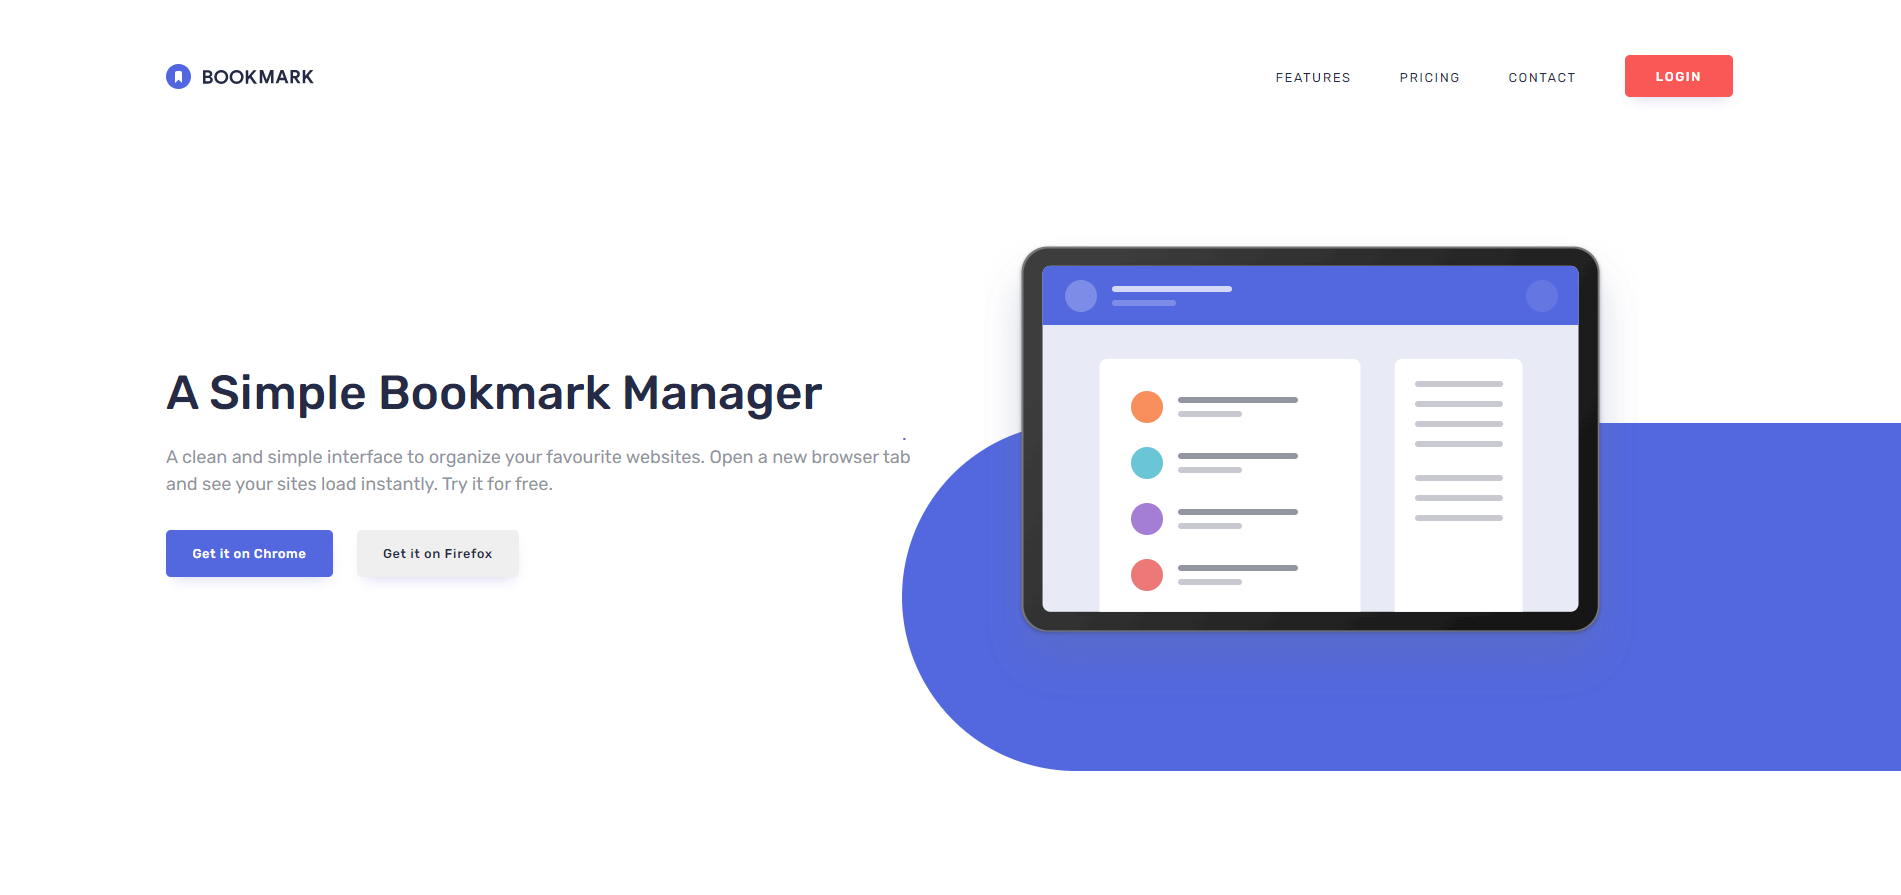
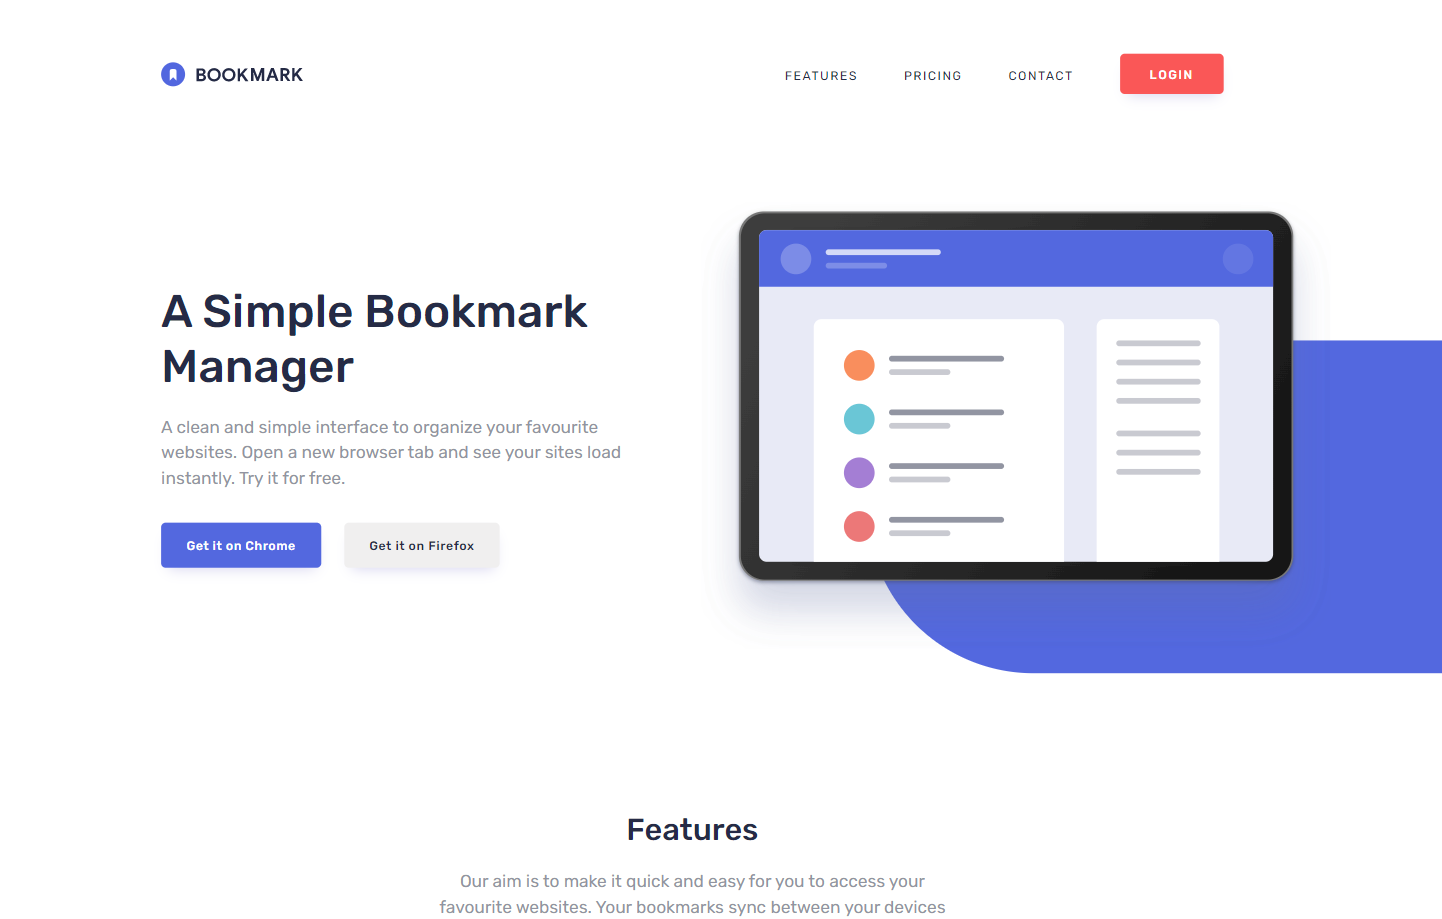
Delete NavBarLink and create Links components, style Contact component

diff --git a/src/components/Contact.js b/src/components/Contact.js
@@ -1,14 +1,15 @@
 import Section from "./Section";
 import Button from "./shared/Button";
-
+import '../css/Contact.css'
 function Contact() {
     return ( 
-        <Section classSection="section-secondary">
-            <p>35,000+ already joined</p>
-            <h2>Stay up-to-date with what we’re doing</h2>
+        <Section classSection="section-secondary section-contact">
+            <p className="contact-des">35,000+ ALREADY JOIN</p>
+            <h2 className="contact-subtitle">Stay up-to-date with what we’re doing</h2>
             <form>
-                <input placeholder="example@email.com"/>
+                <input className="contact-input" placeholder="example@email.com"/>
                 <Button
+                    classButton="btn btn-red btn-contact"
                     text="Contact Us"
                 />
             </form>

diff --git a/src/components/Footer.js b/src/components/Footer.js
@@ -1,19 +1,12 @@
 import {ReactComponent as LogoSVG} from '../img/logo-bookmark.svg';
 import {ReactComponent as FacebookSVG} from '../img/icon-facebook.svg';
 import {ReactComponent as TwitterSVG} from '../img/icon-twitter.svg';
+import Links from './Links';
 function Footer() {
-    const linkItems = [
-        <a href="/">FEATURES</a>,
-        <a href="/">PRICING</a>,
-        <a href="/">CONTACT</a>,
-        <a href="/">LOGIN</a>
-    ];
     return ( 
         <footer>
             <LogoSVG alt="Logo Bookmark"/> 
-            {linkItems.map((link, i) => (
-                <div>{link}</div>
-            ))}
+            <Links></Links>
             <FacebookSVG alt="Logo Facebook"/> 
             <TwitterSVG alt="Logo Facebook"/> 
         </footer>

diff --git a/src/components/Header.js b/src/components/Header.js
@@ -1,12 +1,17 @@
-import Navbarlink from "./NavbarLink";
 import "../css/Header.css";
 import {ReactComponent as LogoSVG} from '../img/logo-bookmark.svg';
+import Links from "./Links";
+import Button from "./shared/Button";
 function Header() {
     return ( 
         <header className="header">
             <LogoSVG alt="Logo Bookmark"/> 
             <nav className="navbar">
-                <Navbarlink></Navbarlink>
+                <Links></Links>
+                <Button
+                text="LOGIN"
+                classButton="btn btn-red"
+            />
             </nav>
         </header>
      );

diff --git a/src/components/Links.js b/src/components/Links.js
@@ -1,6 +1,5 @@
-import Button from "./shared/Button";
 import "../css/Link.css";
-function Navbarlink() {
+function Links() {
     const navItems = [
         <a href="/">FEATURES</a>,
         <a href="/">PRICING</a>,
@@ -11,12 +10,8 @@ function Navbarlink() {
             {navItems.map((link, i) => (
                 <div className="link">{link}</div>
             ))}
-            <Button
-                text="LOGIN"
-                classButton="btn btn-red"
-            />
         </>
     );
 }
 
-export default Navbarlink;
+export default Links;

diff --git a/src/css/Contact.css b/src/css/Contact.css
@@ -1,0 +1,25 @@
+.contact-subtitle{
+    color: var(--white);
+}
+.section-contact{
+    background-color: var(--soft-blue);
+    padding: 5rem 0;
+}
+.contact-des{
+    font-size: 0.8rem;
+    font-weight: 400;
+    letter-spacing: 0.4rem;
+    color: var(--white);
+}
+.contact-input{
+    padding: 0.65rem 1.8rem;
+    border: 0.2rem solid var(--white);
+    border-radius: 0.3rem;
+}
+form{
+    margin-top: 2rem;
+}
+.btn-contact{
+    padding: 0.7rem 1.2rem;
+    letter-spacing: 0.02rem;
+}

diff --git a/src/App.css b/src/App.css
@@ -23,16 +23,15 @@ body{
 a{
     text-decoration: none;
 }
-.App{
-    padding: 0 10.5rem;
-}
 h1,h2{
     color: var(--very-dark-blue);
     font-weight: 500;
-    margin-bottom: 1.4rem;
+    margin-bottom: 1.5rem;
 }
 h2{
     font-size: 2rem;
+    width: 30rem;
+    margin: 0 auto 1.4rem auto;
 }
 h3{
     color: var(--very-dark-blue);

diff --git a/src/components/Intro.js b/src/components/Intro.js
@@ -6,7 +6,7 @@ import {ReactComponent as HeroSVG} from '../img/illustration-hero.svg';
 function Intro() {
     return ( 
         <Section
-            classSection="section"
+            classSection="section-intro"
         >
             <div className="intro">
                 <h1 className="title">A Simple Bookmark Manager</h1>

diff --git a/src/css/Header.css b/src/css/Header.css
@@ -2,7 +2,7 @@
     display: flex;
     align-items: center;
     justify-content: space-between;
-    padding: 3.5rem 0;
+    padding: 3.5rem 10.5rem;
 }
 .navbar{
     display: flex;

diff --git a/src/css/Intro.css b/src/css/Intro.css
@@ -1,4 +1,5 @@
-.section{
+.section-intro{
+    padding: 0 10.5rem;
     display: grid;
     align-items: center;
     grid-template-columns: 1fr 1fr;
